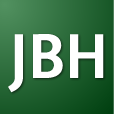
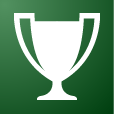
Migration to arranmorechallenge.com
Added CNAME file.
Updated Favicons
Removed jbhlive
Added a 404.html

diff --git a/live.html b/live.html
@@ -96,21 +96,28 @@
     <div class="header-total-padding">
      <div class="header-title-padding">
         <h3>Live Updates<span class="muted"> Check back here for the best of the Arranmore Challenge.</span></h3>
-        <p class="header-text">To make sure no one misses out on the Arranmore Cup Challenge, there will be a team of tweeters sending in the live scores and keeping you up to date with all the latest goals. Everyone can get involved - use the hashtag #JBH13 and your tweet will appear on screen. We'll retweet the best ones!</p>
+        <p class="header-text">To make sure no one misses out on the Arranmore Cup Challenge, there will be a team of tweeters sending in the live scores and keeping you up to date with all the latest goals. Everyone can get involved - use the hashtag <b>#ArranChallenge</b> and your tweet will appear on screen. We'll retweet the best ones!</p>
      </div> 
     </div>
 
     <div class="main-article"> 
       <div class="span6" align="center">  
-        <a class="twitter-timeline" href="https://twitter.com/JBH_Live" data-widget-id="325006884711055364">Tweets by @JBH_Live</a>
+        <a class="twitter-timeline" href="https://twitter.com/ArranChallenge" data-widget-id="332950324388171776">Tweets by @ArranChallenge</a>
         <script>!function(d,s,id){var js,fjs=d.getElementsByTagName(s)[0],p=/^http:/.test(d.location)?'http':'https';if(!d.getElementById(id)){js=d.createElement(s);js.id=id;js.src=p+"://platform.twitter.com/widgets.js";fjs.parentNode.insertBefore(js,fjs);}}(document,"script","twitter-wjs");</script> 
       </div> 
       <div class="span5" align="center"> 
-        <p><a class="twitter-timeline" href="https://twitter.com/search?q=arranmore" data-widget-id="317050917134417920">Tweets about "arranmore"</a>
-          <script>!function(d,s,id){var js,fjs=d.getElementsByTagName(s)[0];if(!d.getElementById(id)){js=d.createElement(s);js.id=id;js.src="//platform.twitter.com/widgets.js";fjs.parentNode.insertBefore(js,fjs);}}(document,"script","twitter-wjs");</script>
-        </p> 
+              <a class="twitter-timeline" href="https://twitter.com/search?q=%23ArranChallenge" data-widget-id="332951786065379329">Tweets about "#ArranChallenge"</a>
+      <script>!function(d,s,id){var js,fjs=d.getElementsByTagName(s)[0],p=/^http:/.test(d.location)?'http':'https';if(!d.getElementById(id)){js=d.createElement(s);js.id=id;js.src=p+"://platform.twitter.com/widgets.js";fjs.parentNode.insertBefore(js,fjs);}}(document,"script","twitter-wjs");</script>
       </div>
     </div>
+
+<!--     <div class="main-article">
+      <div class="header-title-padding">
+        <h3>Leave a comment<span class="muted"> Not a fan of twitter? Leave a comment with Facebook.</span></h3>
+        <div class="span11" align="center">
+        </div> 
+      </div>
+    </div> -->
 
       <!-- /END THE FEATURETTES -->
 

diff --git a/404.html b/404.html
@@ -1,0 +1,1 @@
+page404
